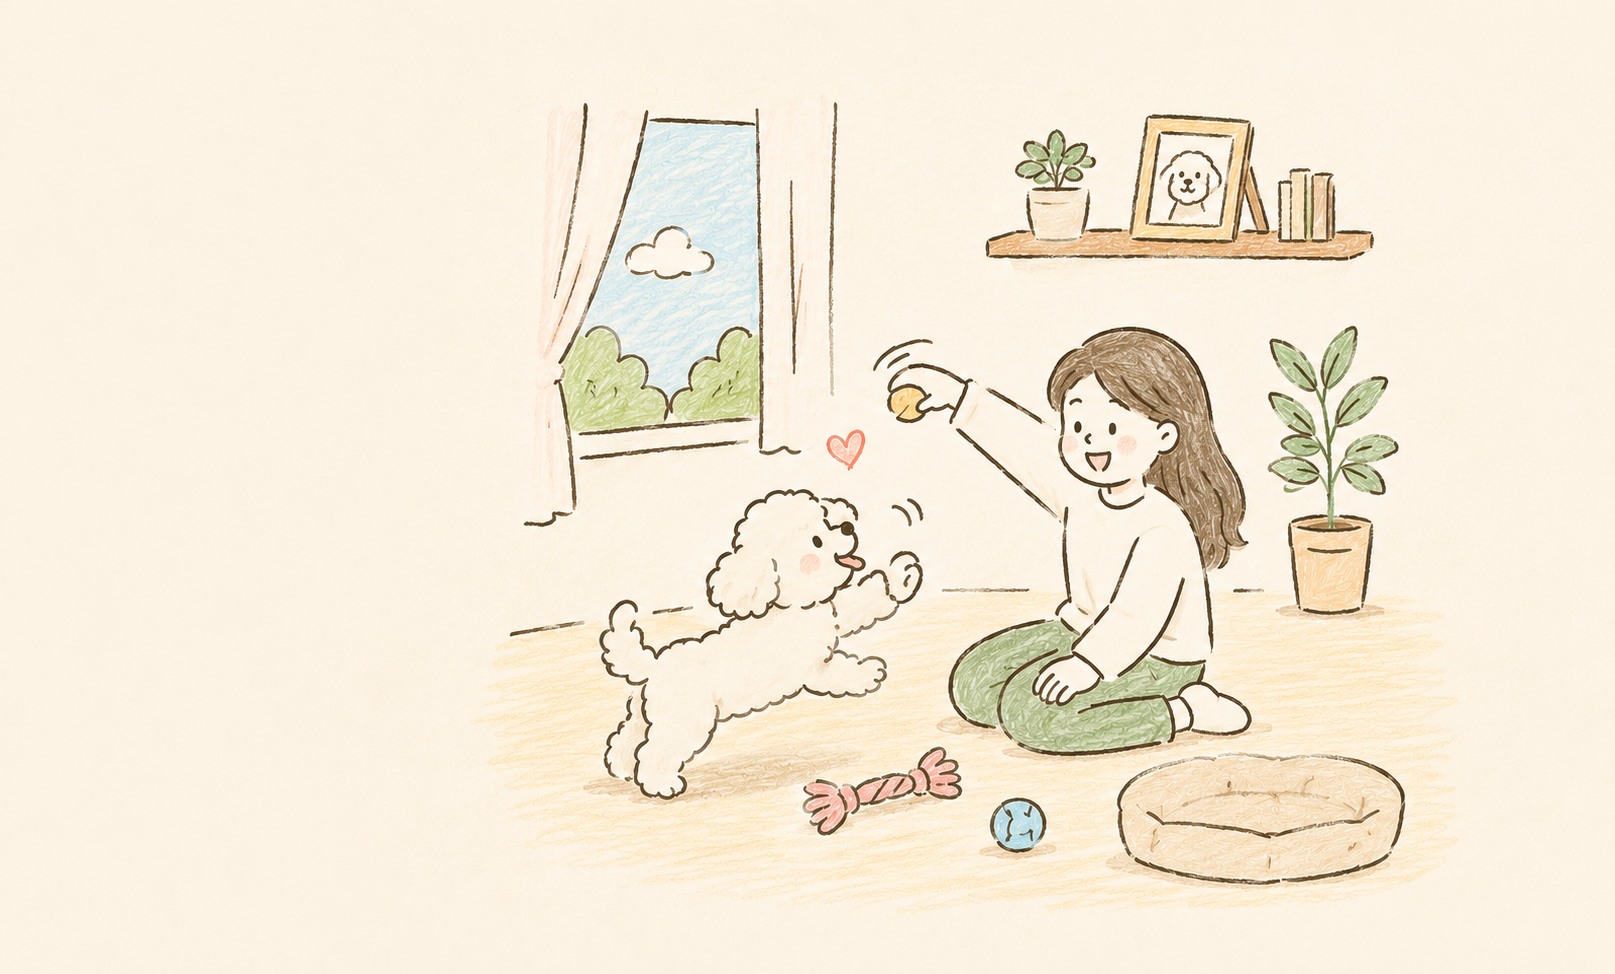
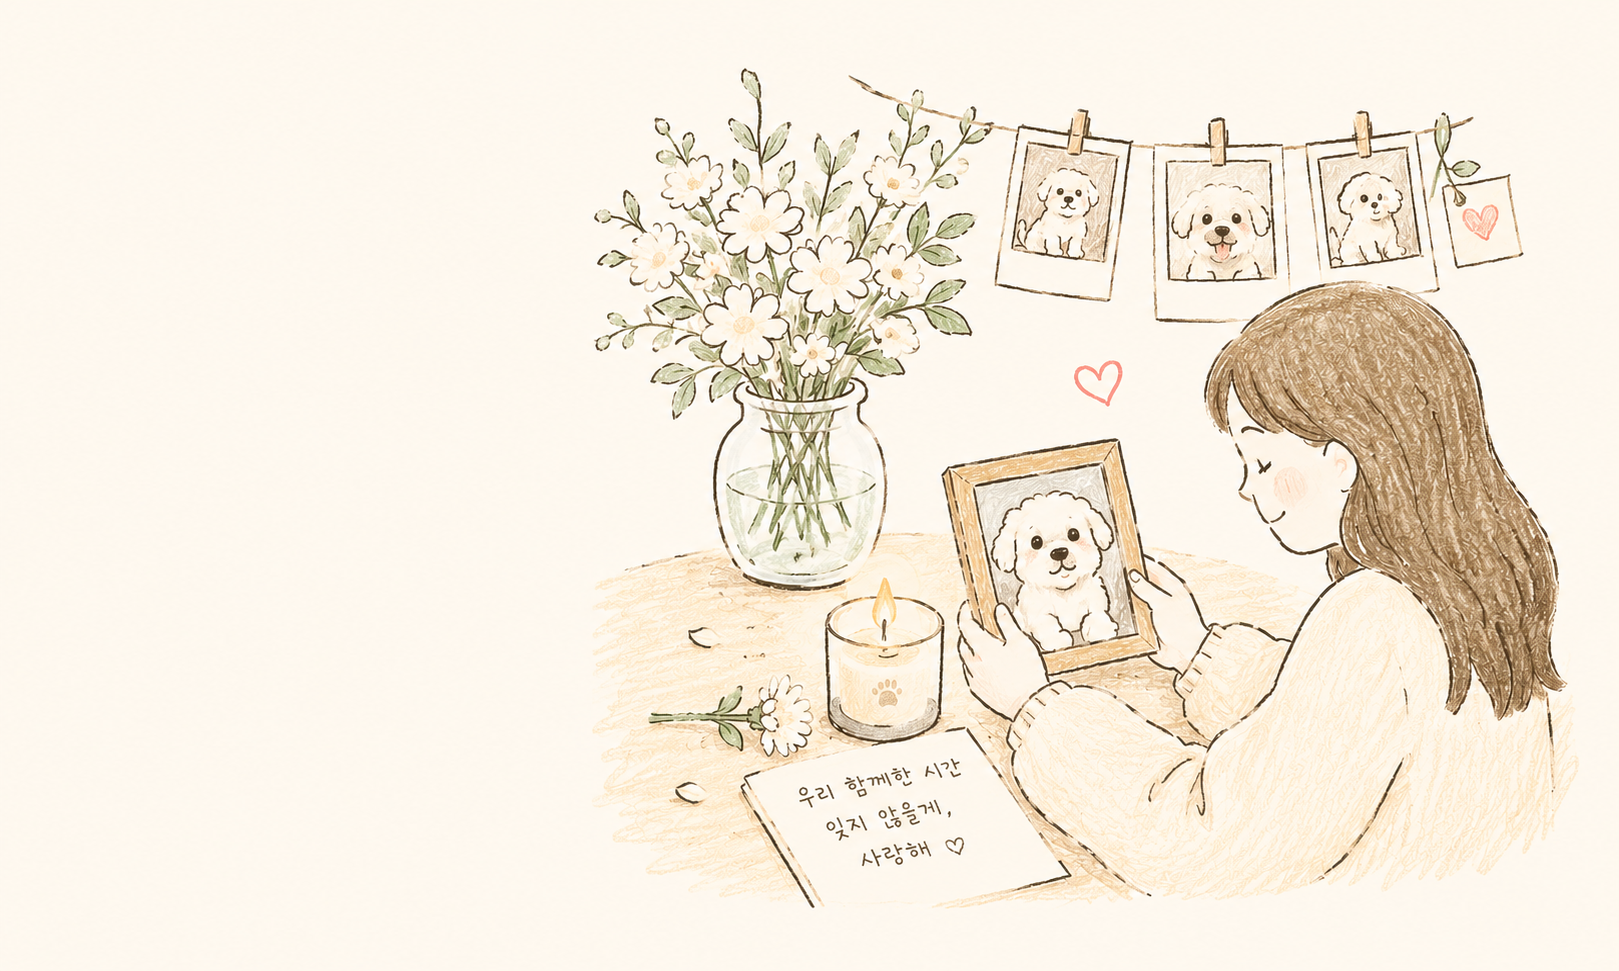
Update text across multiple components to replace references from "아이" (child) to "반려동물" (pet) for consistency. Modify Hero, CostCases, Footer, PopularGuides, QuickLinks, and SearchPanel components. Update memorial-space-card image to reflect new branding.

Changed region(s): [[0.2786, 0.0927, 0.9907, 0.9578], [0.4334, 0.0618, 0.4644, 0.0927]]

diff --git a/src/components/Hero.tsx b/src/components/Hero.tsx
@@ -14,7 +14,7 @@ const features = [
   {
     icon: Heart,
     title: '후회 없는 선택',
-    description: '우리 아이에게 가장 좋은 선택을 할 수 있도록 도와드려요',
+    description: '우리 반려동물에게 가장 좋은 선택을 할 수 있도록 도와드려요',
   },
 ]
 
@@ -23,7 +23,7 @@ export function Hero() {
     <section className="hero-section">
       <div className="hero-content">
         <h1>
-          소중한 우리 아이의 마지막 순간,
+          소중한 우리 반려동물의 마지막 순간,
           <br />
           <span className="hero-accent">펫로그</span>가 함께합니다
         </h1>

diff --git a/src/components/Header.tsx b/src/components/Header.tsx
@@ -16,7 +16,6 @@ export function Header() {
         <a href="#popular-guides">정보 이야기</a>
         <a href="#memory">추모 공간</a>
         <a href="#community">커뮤니티</a>
-        <a href="#guide">이용 안내</a>
       </nav>
       <div className="header-actions">
         <button className="icon-button" type="button" aria-label="검색">

diff --git a/src/components/PopularGuides.tsx b/src/components/PopularGuides.tsx
@@ -15,8 +15,8 @@ const popularGuides = [
     tone: 6,
   },
   {
-    title: '아이를 추모하는 다양한 방법',
-    description: '일상 속에서 아이를 기억하는 방법들',
+    title: '반려동물을 추모하는 다양한 방법',
+    description: '일상 속에서 반려동물을 기억하는 방법들',
     tone: 4,
   },
 ]

diff --git a/src/components/CostCases.tsx b/src/components/CostCases.tsx
@@ -53,7 +53,7 @@ export function CostCases() {
               <Heart size={15} aria-hidden="true" />
             </span>
             <h3>
-              우리 아이를 기억하는
+              우리 반려동물을 기억하는
               <br />
               추모 공간
             </h3>

diff --git a/src/components/SearchPanel.tsx b/src/components/SearchPanel.tsx
@@ -40,7 +40,7 @@ export function SearchPanel({
   return (
     <section className="search-panel" aria-label="장례 서비스 검색">
       <div className="search-copy">
-        우리 아이에게
+        우리 반려동물에게
         <br />
         맞는 장례 서비스를
         <br />

diff --git a/src/components/Footer.tsx b/src/components/Footer.tsx
@@ -13,7 +13,7 @@ export function Footer() {
             </span>
           </a>
           <p>
-            소중한 우리 아이의 마지막 순간,
+            소중한 우리 반려동물의 마지막 순간,
             <br />
             펫로그가 함께합니다.
           </p>

diff --git a/src/components/QuickLinks.tsx b/src/components/QuickLinks.tsx
@@ -9,7 +9,7 @@ const quickLinks = [
   {
     icon: Calculator,
     title: '비용 가이드',
-    description: '아이 체중별 예상 비용을 확인해보세요',
+    description: '반려동물 체중별 예상 비용을 확인해보세요',
   },
   {
     icon: MessageCircle,
